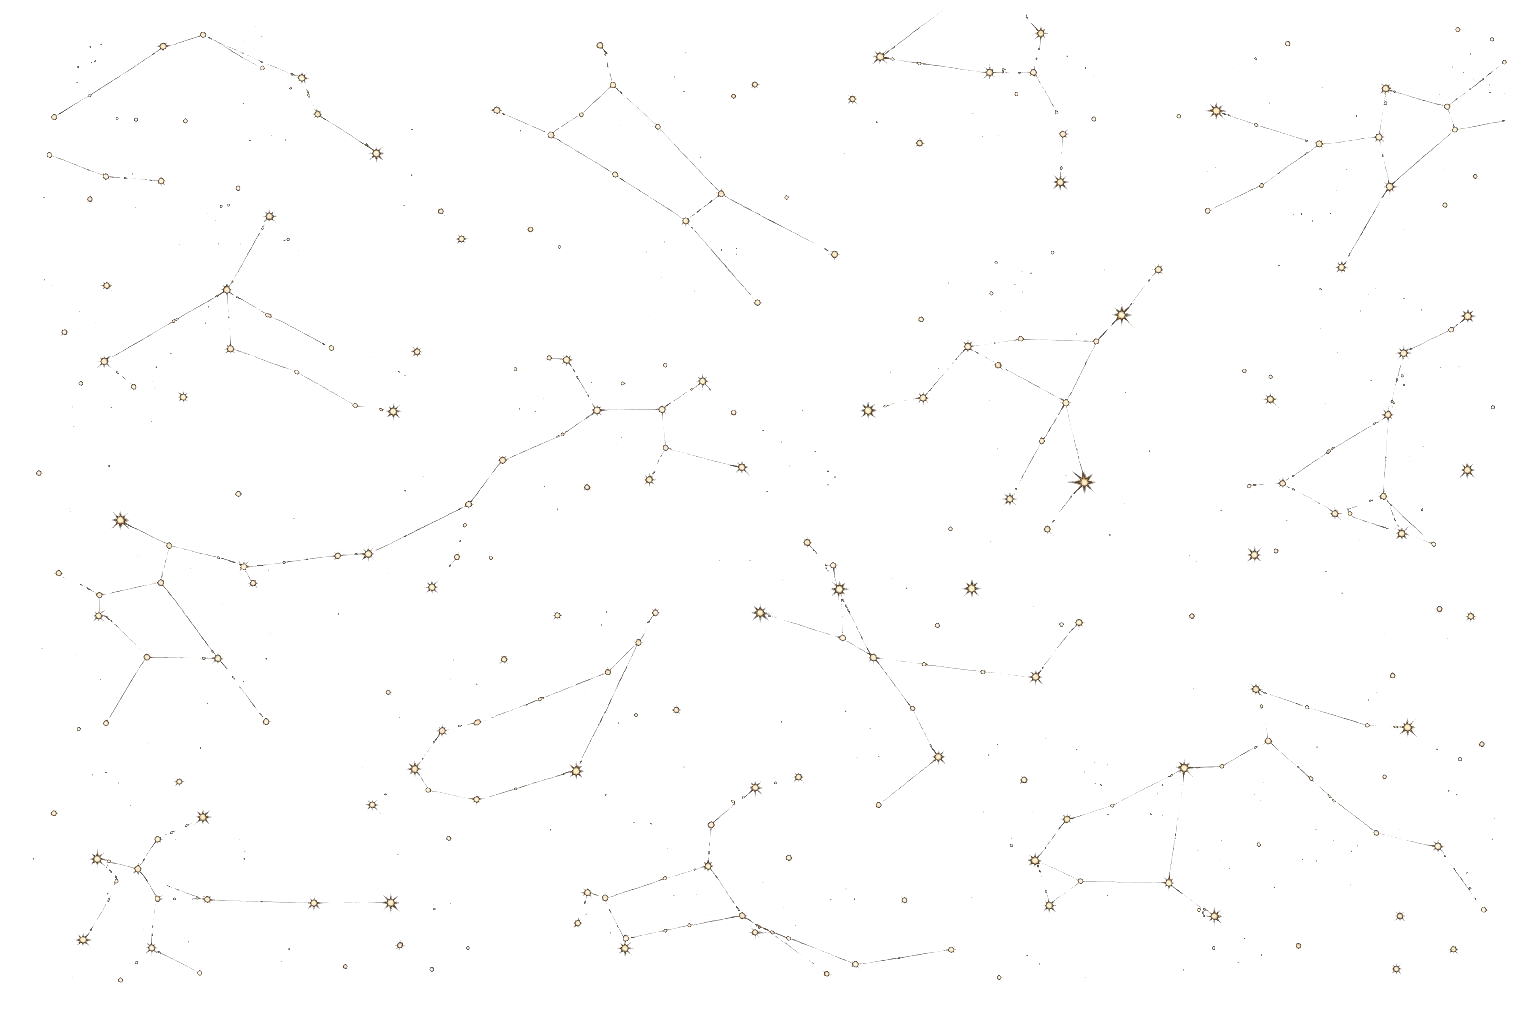
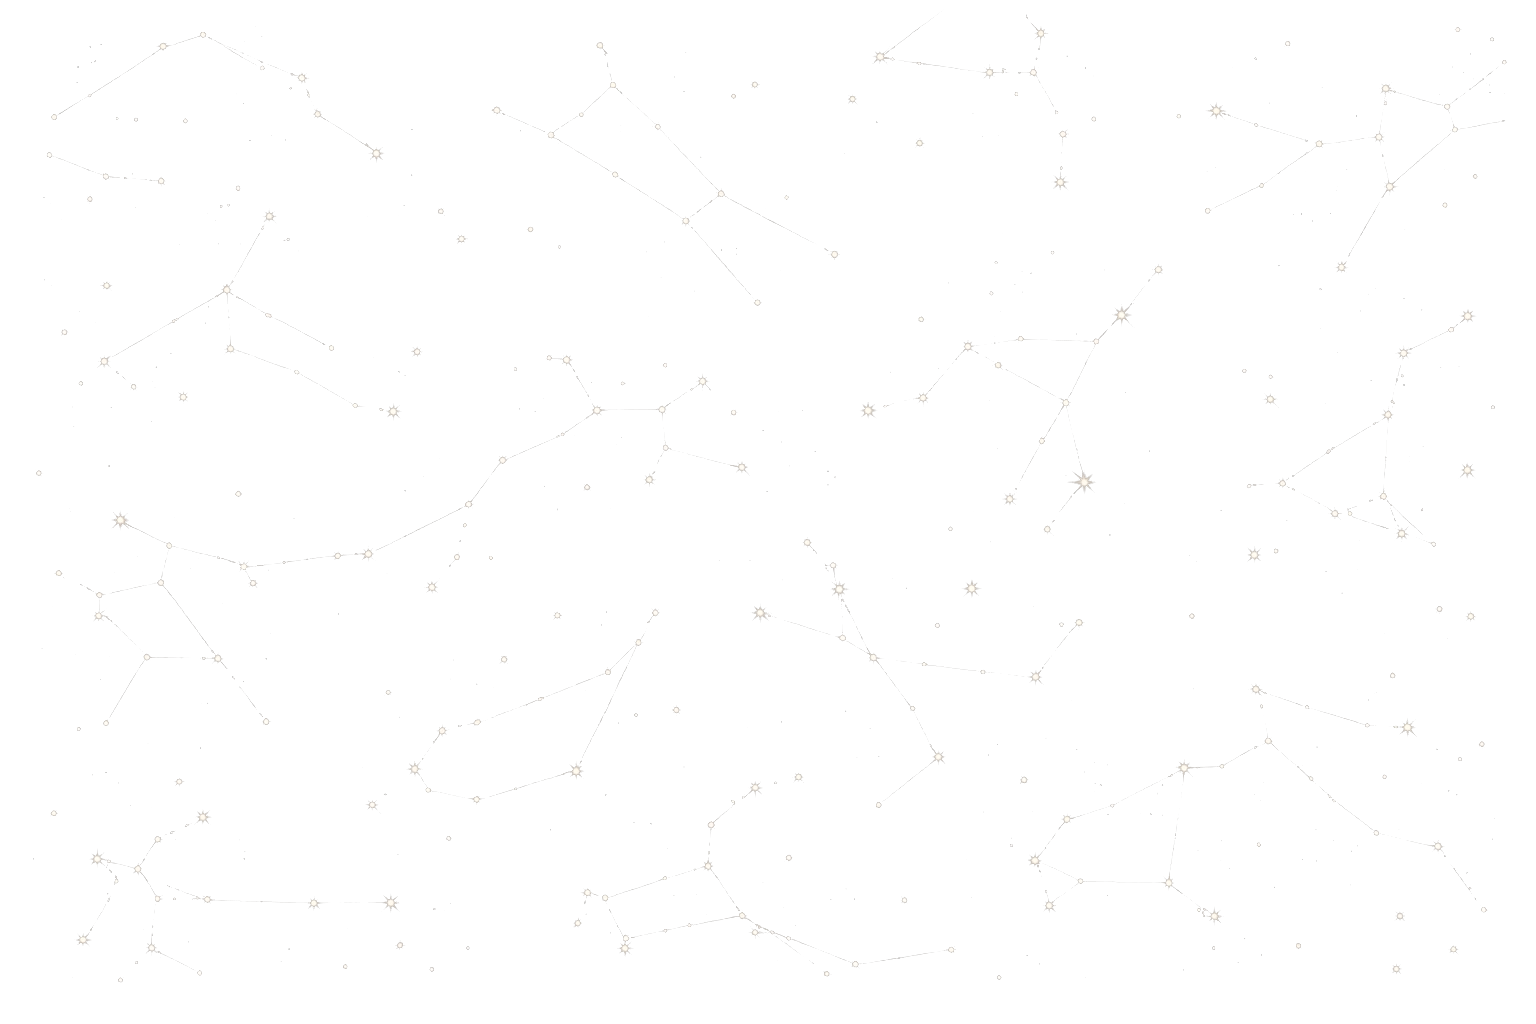
refactor: redesign slide layout for visual hierarchy and breathing room
Title slide:
- Moon reduced to ~150px width, centered horizontally, 60% opacity
- Divider reduced to 40% slide width, centered below title
- Title text is now the clear visual protagonist

All slides:
- Corner ornaments split into 4 individual crops at 30% original size
  with 40% opacity (subtle decoration, not protagonists)
- Constellation overlay reduced to 30% opacity on content/science slides
- All elements use 10% padding constants (PAD_H, PAD_V, CONTENT_W)
- Moon and divider PNGs converted from opaque black to transparent

Visual test: title readable without any decorations, decorations
enhance without competing.

https://claude.ai/code/session_01VYgNENw3FCtkLmfTVaMt3e

Changed region(s): [[0.6875, 0.4688, 0.7188, 0.5], [0.5625, 0.0312, 0.5938, 0.0625], [0.0625, 0.5, 0.0938, 0.5312]]

diff --git a/slide_builder.py b/slide_builder.py
@@ -58,7 +58,18 @@ BG_MAP = {
 MOON_PATH = ASSETS_DIR / "decorations" / "moon_face.png"
 DIVIDER_PATH = ASSETS_DIR / "decorations" / "divider_star.png"
 CORNER_PATH = ASSETS_DIR / "decorations" / "corner_ornaments.png"
+CORNER_PATHS = {
+    "tl": ASSETS_DIR / "decorations" / "corner_tl.png",
+    "tr": ASSETS_DIR / "decorations" / "corner_tr.png",
+    "bl": ASSETS_DIR / "decorations" / "corner_bl.png",
+    "br": ASSETS_DIR / "decorations" / "corner_br.png",
+}
 CONSTELLATION_PATH = ASSETS_DIR / "decorations" / "constellation_overlay.png"
+
+# Layout constants — 10% padding on all edges
+PAD_H = Inches(1.333)   # 10% of 13.333"
+PAD_V = Inches(0.75)    # 10% of 7.5"
+CONTENT_W = Inches(10.667)  # 13.333 - 2*1.333
 
 
 def _set_slide_bg(slide, prs, slide_type="content"):
@@ -126,48 +137,76 @@ def _add_watermark(slide):
     )
 
 
+def _set_picture_opacity(pic, opacity_pct):
+    """Set opacity on a picture shape via XML (0-100)."""
+    from pptx.oxml.ns import qn
+    from lxml import etree
+    blipFill = pic._element.find(qn('p:blipFill'))
+    if blipFill is not None:
+        blip = blipFill.find(qn('a:blip'))
+        if blip is not None:
+            amt = int(opacity_pct * 1000)  # 40% = 40000
+            alphaModFix = etree.SubElement(blip, qn('a:alphaModFix'))
+            alphaModFix.set('amt', str(amt))
+
+
 def _add_corner_ornaments(slide, color=GOLD_DIM):
-    """Add corner ornaments: image asset if available, else text ✦."""
-    if CORNER_PATH.exists():
-        # Corner ornaments image is a single image with 4 corners.
-        # Place it as a full-slide overlay — the PNG has transparent center.
-        slide.shapes.add_picture(
-            str(CORNER_PATH), 0, 0,
-            Inches(13.333), Inches(7.5)
-        )
+    """Add 4 individual corner ornaments at 30% size, 40% opacity."""
+    # Corner size: ~1.4" x ~0.93" (30% of original ~4.6" x 3.1" visual)
+    cw = Inches(1.4)
+    ch = Inches(0.93)
+    margin = Inches(0.15)  # Small inset from edges
+    sw, sh = Inches(13.333), Inches(7.5)
+
+    positions = {
+        "tl": (margin, margin),
+        "tr": (sw - cw - margin, margin),
+        "bl": (margin, sh - ch - margin),
+        "br": (sw - cw - margin, sh - ch - margin),
+    }
+
+    has_images = all(p.exists() for p in CORNER_PATHS.values())
+    if has_images:
+        for key, (left, top) in positions.items():
+            pic = slide.shapes.add_picture(
+                str(CORNER_PATHS[key]), left, top, cw, ch
+            )
+            _set_picture_opacity(pic, 40)
     else:
-        positions = [
-            (Inches(0.3), Inches(0.2)),
-            (Inches(12.5), Inches(0.2)),
-            (Inches(0.3), Inches(6.9)),
-            (Inches(12.5), Inches(6.9)),
-        ]
-        for left, top in positions:
+        for left, top in positions.values():
             _add_text_box(
                 slide, left, top, Inches(0.5), Inches(0.4),
                 text="✦",
-                font_size=Pt(14), font_color=color,
+                font_size=Pt(10), font_color=color,
                 alignment=PP_ALIGN.CENTER
             )
 
 
 def _add_moon(slide):
-    """Add moon_face decoration on title slides."""
+    """Add moon_face decoration on title slides — small, centered, subtle."""
     if MOON_PATH.exists():
-        slide.shapes.add_picture(
-            str(MOON_PATH),
-            Inches(5.2), Inches(0.2),
-            Inches(3), Inches(3)
+        # ~150px wide ≈ 1.56". Moon is portrait (2:3), so height ≈ 2.34"
+        moon_w = Inches(1.56)
+        moon_h = Inches(2.34)
+        # Center horizontally, with breathing room from top
+        left = (Inches(13.333) - moon_w) / 2
+        top = Inches(0.8)
+        pic = slide.shapes.add_picture(
+            str(MOON_PATH), int(left), int(top), moon_w, moon_h
         )
+        _set_picture_opacity(pic, 60)  # Subtle, not protagonist
 
 
-def _add_divider(slide):
-    """Add star divider below title."""
+def _add_divider(slide, top=None):
+    """Add star divider — 40% slide width, centered."""
     if DIVIDER_PATH.exists():
+        div_w = Inches(5.333)  # 40% of 13.333"
+        div_h = Inches(0.35)
+        left = (Inches(13.333) - div_w) / 2
+        if top is None:
+            top = Inches(1.8)
         slide.shapes.add_picture(
-            str(DIVIDER_PATH),
-            Inches(3), Inches(1.8),
-            Inches(7.333), Inches(0.5)
+            str(DIVIDER_PATH), int(left), int(top), div_w, div_h
         )
 
 
@@ -224,7 +263,7 @@ def build_slide(prs, slide_data: dict, slide_number: int, total_slides: int):
         badge_text = f"{icon}  {slide_type.upper()}"
         _add_text_box(
             slide,
-            left=Inches(1.5), top=Inches(0.5),
+            left=PAD_H, top=PAD_V,
             width=Inches(3), height=Inches(0.35),
             text=badge_text,
             font_name=FONT_BODY, font_size=Pt(10),
@@ -234,7 +273,7 @@ def build_slide(prs, slide_data: dict, slide_number: int, total_slides: int):
     # Slide counter (top-right)
     _add_text_box(
         slide,
-        left=Inches(11), top=Inches(0.5),
+        left=Inches(13.333) - PAD_H - Inches(1.5), top=PAD_V,
         width=Inches(1.5), height=Inches(0.35),
         text=f"{slide_number}/{total_slides}",
         font_name=FONT_BODY, font_size=Pt(10),
@@ -245,22 +284,24 @@ def build_slide(prs, slide_data: dict, slide_number: int, total_slides: int):
     # Title — centered and larger for title/quote slides
     if slide_type == "title":
         _add_moon(slide)
+        # Title text is the protagonist — centered vertically in the slide
         _add_text_box(
             slide,
-            left=Inches(1.5), top=Inches(3.2),
-            width=Inches(10), height=Inches(1.5),
+            left=PAD_H, top=Inches(3.4),
+            width=CONTENT_W, height=Inches(1.5),
             text=title,
             font_name=FONT_DISPLAY, font_size=Pt(44),
             font_color=GOLD_LIGHT, bold=True,
             alignment=PP_ALIGN.CENTER
         )
-        _add_divider(slide)
+        # Divider sits right below title
+        _add_divider(slide, top=Inches(4.9))
         subtitle = slide_data.get("subtitle", "")
         if subtitle:
             _add_text_box(
                 slide,
-                left=Inches(1.5), top=Inches(4.8),
-                width=Inches(10), height=Inches(0.5),
+                left=PAD_H, top=Inches(5.4),
+                width=CONTENT_W, height=Inches(0.5),
                 text=subtitle,
                 font_name=FONT_BODY, font_size=Pt(18),
                 font_color=DIM,
@@ -270,8 +311,8 @@ def build_slide(prs, slide_data: dict, slide_number: int, total_slides: int):
         # Large italic quote centered
         _add_text_box(
             slide,
-            left=Inches(1.5), top=Inches(1.5),
-            width=Inches(10), height=Inches(2.5),
+            left=PAD_H, top=Inches(2.0),
+            width=CONTENT_W, height=Inches(2.5),
             text=f"❝ {title}",
             font_name=FONT_DISPLAY, font_size=Pt(28),
             font_color=GOLD_LIGHT, bold=False,
@@ -279,29 +320,29 @@ def build_slide(prs, slide_data: dict, slide_number: int, total_slides: int):
         )
         subtitle = slide_data.get("subtitle", "")
         if subtitle:
-            _add_divider(slide)
+            _add_divider(slide, top=Inches(4.5))
             _add_text_box(
                 slide,
-                left=Inches(1.5), top=Inches(4.5),
-                width=Inches(10), height=Inches(0.5),
+                left=PAD_H, top=Inches(5.0),
+                width=CONTENT_W, height=Inches(0.5),
                 text=f"— {subtitle}",
                 font_name=FONT_BODY, font_size=Pt(16),
                 font_color=DIM,
                 alignment=PP_ALIGN.CENTER
             )
     else:
-        # Standard title — inset from corner ornaments
+        # Standard title — inset with generous margins
         title_top = Inches(1.3)
         _add_text_box(
             slide,
-            left=Inches(1.5), top=title_top,
-            width=Inches(10), height=Inches(0.8),
+            left=PAD_H, top=title_top,
+            width=CONTENT_W, height=Inches(0.8),
             text=title,
             font_name=FONT_DISPLAY, font_size=Pt(32),
             font_color=GOLD_LIGHT, bold=True
         )
         # Separator line under title
-        _add_separator_line(slide, Inches(1.5), Inches(2.2), Inches(10), accent)
+        _add_separator_line(slide, PAD_H, Inches(2.2), CONTENT_W, accent)
 
     # Bullets (skip for title and quote slides)
     if slide_type not in ("title", "quote"):
@@ -310,8 +351,8 @@ def build_slide(prs, slide_data: dict, slide_number: int, total_slides: int):
             bullet_text = f"  •  {bullet}"
             _add_text_box(
                 slide,
-                left=Inches(1.5), top=bullet_top + Inches(i * 0.55),
-                width=Inches(10), height=Inches(0.45),
+                left=PAD_H, top=bullet_top + Inches(i * 0.55),
+                width=CONTENT_W, height=Inches(0.45),
                 text=bullet_text,
                 font_name=FONT_BODY, font_size=Pt(20),
                 font_color=WHITE
@@ -319,11 +360,11 @@ def build_slide(prs, slide_data: dict, slide_number: int, total_slides: int):
 
     # Citation (if present, at bottom — above corner ornaments)
     if citation:
-        _add_separator_line(slide, Inches(1.5), Inches(5.5), Inches(5), GOLD_DIM)
+        _add_separator_line(slide, PAD_H, Inches(5.5), Inches(5), GOLD_DIM)
         _add_text_box(
             slide,
-            left=Inches(1.5), top=Inches(5.6),
-            width=Inches(10), height=Inches(0.7),
+            left=PAD_H, top=Inches(5.6),
+            width=CONTENT_W, height=Inches(0.7),
             text=f"📚 {citation}",
             font_name=FONT_BODY, font_size=Pt(11),
             font_color=DIM
